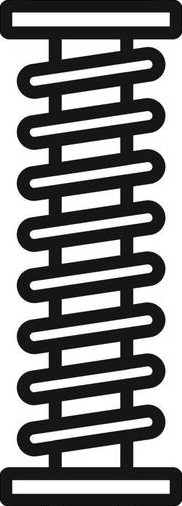
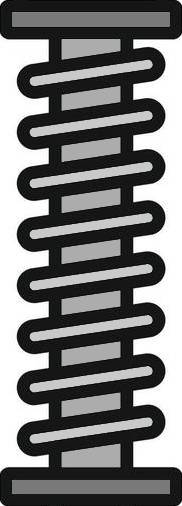
Improve spring texture

Changed region(s): [[0.0549, 0.0, 0.9341, 0.9783]]

diff --git a/simulation.py b/simulation.py
@@ -74,7 +74,7 @@ class App:
                 width=self.slider_width,
                 height=10,
                 min_value=20,
-                max_value=20000,
+                max_value=10000,
                 initial_value=5000,
                 on_change=lambda val: setattr(globals, "GENERATOR_PARAM", val),
                 name="Generator param",
